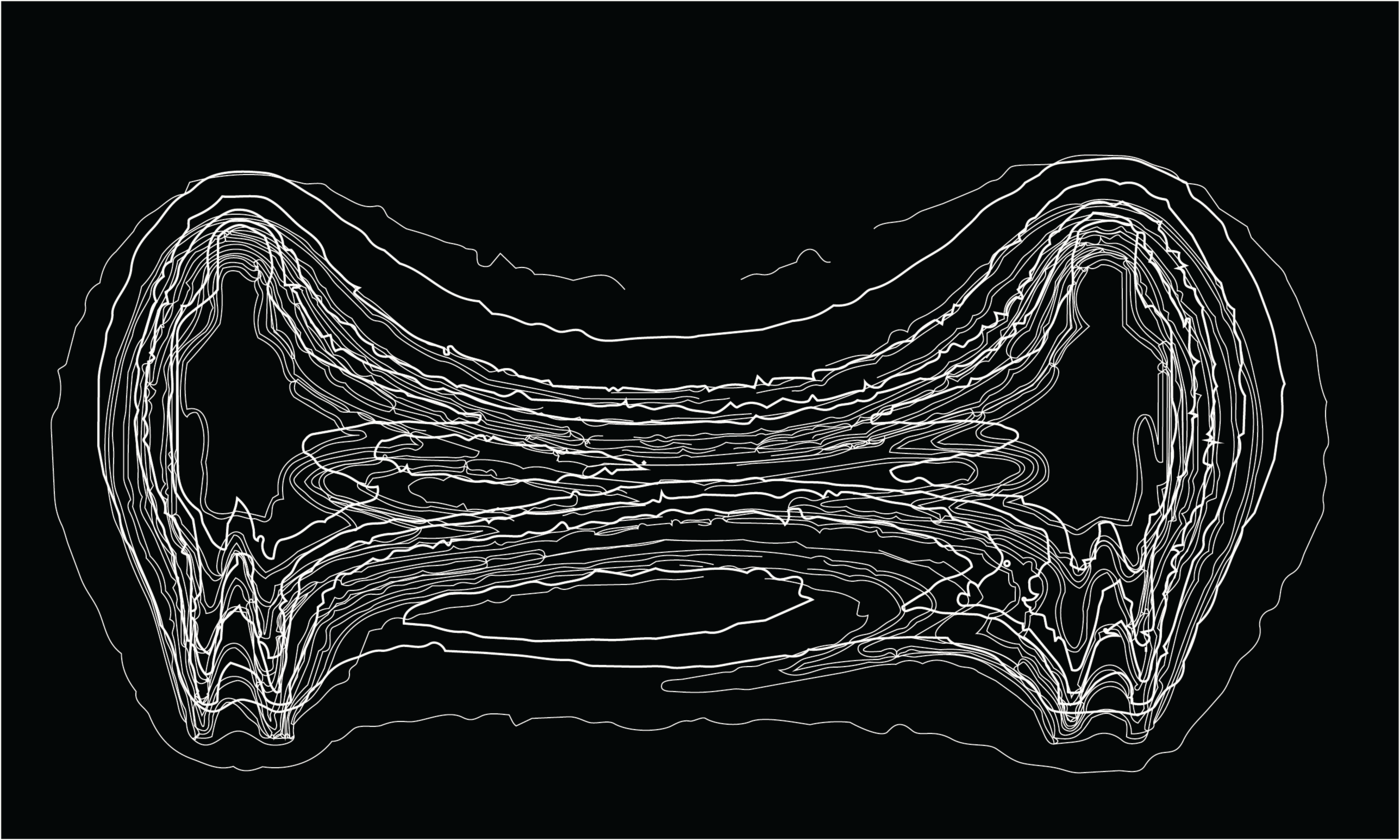
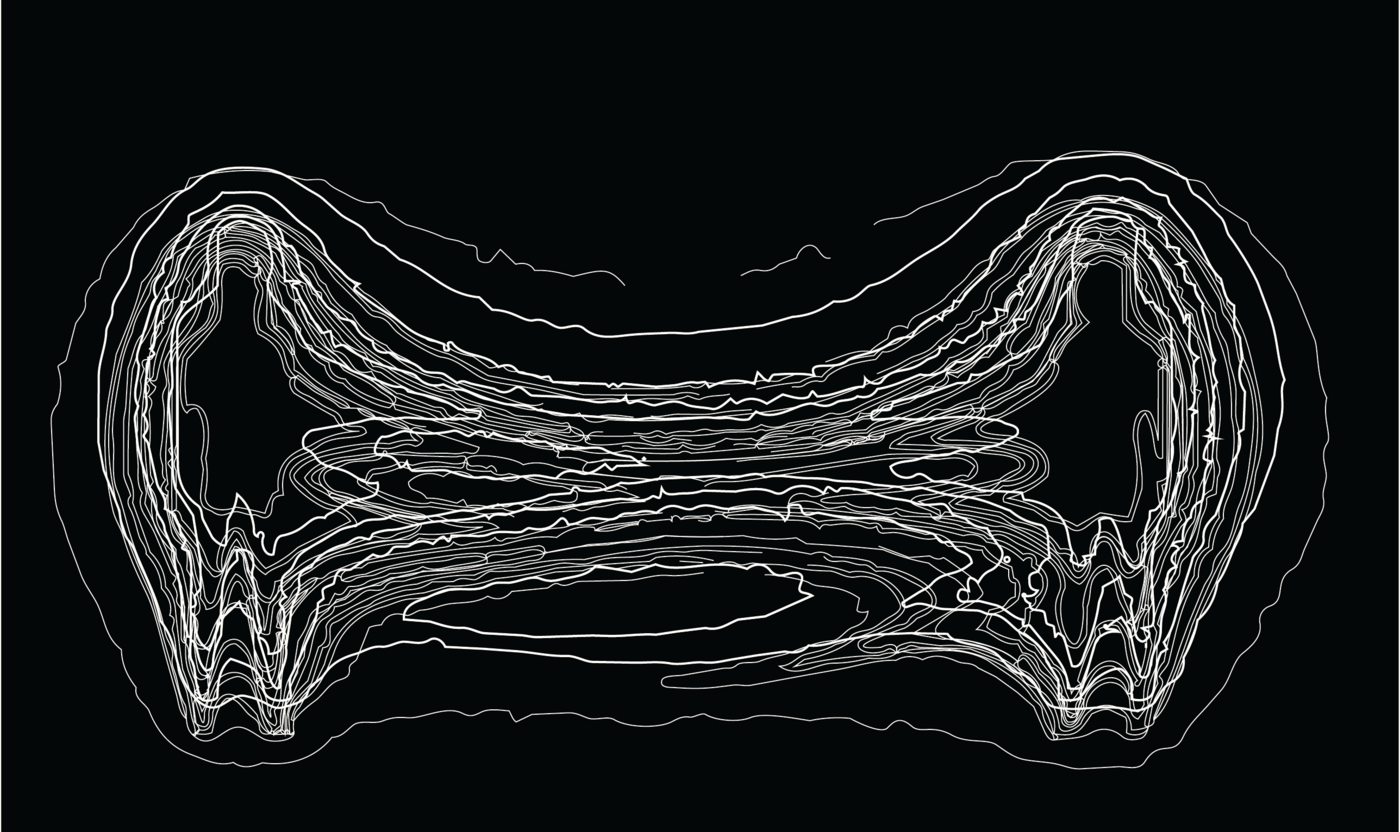
avoidant: hold before the phrase moves; phrase breaks into pixels
After the sentence lands the page holds still for a screen. The phrase then
travels to the middle, and as the background turns black it breaks into
pixels that drift up and disappear while the drawing grows in. The track is
longer to fit the extra phases. The drawing's edge line is trimmed.

Claude-Session: https://claude.ai/code/session_016Ctur2Daiq14WJuJAv3moJ

diff --git a/avoidant/index.html b/avoidant/index.html
@@ -36,7 +36,7 @@
   /* tall track so the hero stays pinned while the glitter dissolves */
   .glitter-track{
     position:relative;
-    height:700vh;
+    height:800vh;
   }
   .ph-logic{
     display:inline-block;
@@ -227,6 +227,7 @@
   let loaded = 0, isReady = false;
 
   let items = [];                   // phase 1 glitter
+  let textPx = [];                  // the phrase, as pixels, for its dissolve
   let contour = [];                 // phase 3 drawing
   let W = 0, H = 0, dpr = 1;
   let p = 0, pTarget = 0;           // phase 1: glitter dissolves to white
@@ -360,14 +361,63 @@
 
     buildContour();
     measurePhrase();
+    buildText();
+  }
+
+  // Turn the centred phrase into pixels so it can break up as you keep scrolling.
+  function buildText(){
+    const cst = getComputedStyle(phraseEl);
+    const off = document.createElement('canvas');
+    off.width = W; off.height = H;
+    const c = off.getContext('2d', { willReadFrequently: true });
+    c.font = cst.fontWeight + ' ' + cst.fontSize + ' ' + cst.fontFamily;
+    c.textAlign = 'center';
+    c.textBaseline = 'middle';
+    c.fillStyle = '#000000';
+    c.fillText(phraseEl.textContent, W / 2, H / 2);
+    const fs = parseFloat(cst.fontSize) || 20;
+    const y0 = Math.max(0, Math.floor(H / 2 - fs * 2));
+    const y1 = Math.min(H, Math.ceil(H / 2 + fs * 2));
+    const d = c.getImageData(0, y0, W, y1 - y0).data;
+    textPx = [];
+    for (let y = y0; y < y1; y++) {
+      for (let x = 0; x < W; x++) {
+        if (d[((y - y0) * W + x) * 4 + 3] > 100) {
+          textPx.push({
+            x: x, y: y,
+            k: Math.random(),                 // when this pixel lets go
+            ph: Math.random() * Math.PI * 2,
+            f: 0.8 + Math.random() * 2,
+            rise: 20 + Math.random() * 80,    // how far it drifts up as it goes
+          });
+        }
+      }
+    }
   }
 
   function updateText(){
     titleEl.style.opacity = 1 - smooth(0.6, 0.9, p);
-    centerEl.style.opacity = smooth(0.85, 1, p) * (1 - smooth(0.05, 0.3, u3));
+    centerEl.style.opacity = smooth(0.85, 1, p);
     restEls.forEach(function(el){ el.style.opacity = 1 - smooth(0, 0.6, u2); });
     const e = smooth(0, 1, u2);
     phraseEl.style.transform = 'translate(' + (phraseDX * e) + 'px,' + (phraseDY * e) + 'px)';
+    // once the phrase starts to break up, the pixel version takes over
+    phraseEl.style.opacity = u3 > 0 ? 0 : 1;
+  }
+
+  // the phrase's pixels: they turn white with the background, then drift up and go
+  function drawText(time){
+    const bgB = smooth(0, 0.25, u3);
+    const v = Math.round(17 + 238 * bgB);
+    const dq = smooth(0, 0.8, u3);
+    ctx.fillStyle = 'rgb(' + v + ',' + v + ',' + v + ')';
+    for (let i = 0; i < textPx.length; i++) {
+      const t = textPx[i];
+      if (t.k < dq) continue;
+      const x = t.x + Math.sin(time * t.f + t.ph) * (1 + dq * 4);
+      const y = t.y - t.rise * dq + Math.cos(time * t.f * 0.6 + t.ph) * (1 + dq * 3);
+      ctx.fillRect(x, y, 1.4, 1.4);
+    }
   }
 
   function drawGlitter(time){
@@ -436,6 +486,7 @@
     ctx.fillStyle = 'rgb(' + bg + ',' + bg + ',' + bg + ')';
     ctx.fillRect(0, 0, W, H);
     if (p < 1) drawGlitter(time);
+    if (u3 > 0) drawText(time);
     if (u3 > 0) drawContour(time);
   }
 
@@ -463,8 +514,9 @@
     const vh = window.innerHeight;
     const y = window.scrollY;
     pTarget = Math.min(1, Math.max(0, y / (vh * 3)));          // phase 1: 3 screens
-    u2 = Math.min(1, Math.max(0, (y - vh * 3) / vh));          // phase 2: 1 screen
-    u3 = Math.min(1, Math.max(0, (y - vh * 4) / (vh * 2)));    // phase 3: 2 screens
+    // 3..4 screens: hold, the sentence stays still
+    u2 = Math.min(1, Math.max(0, (y - vh * 4) / vh));          // phase 2: 1 screen, phrase moves to the middle
+    u3 = Math.min(1, Math.max(0, (y - vh * 5) / (vh * 2)));    // phase 3: 2 screens, pixels break up, drawing grows in
     if (reduce) {
       p = pTarget;
       draw(0);
@@ -490,7 +542,7 @@
   cimg.onload = onLoaded; cimg.onerror = onLoaded;
 
   if (document.fonts && document.fonts.ready) {
-    document.fonts.ready.then(function(){ if (isReady) { measurePhrase(); updateText(); } });
+    document.fonts.ready.then(function(){ if (isReady) { measurePhrase(); buildText(); updateText(); } });
   }
 
   window.addEventListener('scroll', onScroll, { passive: true });
